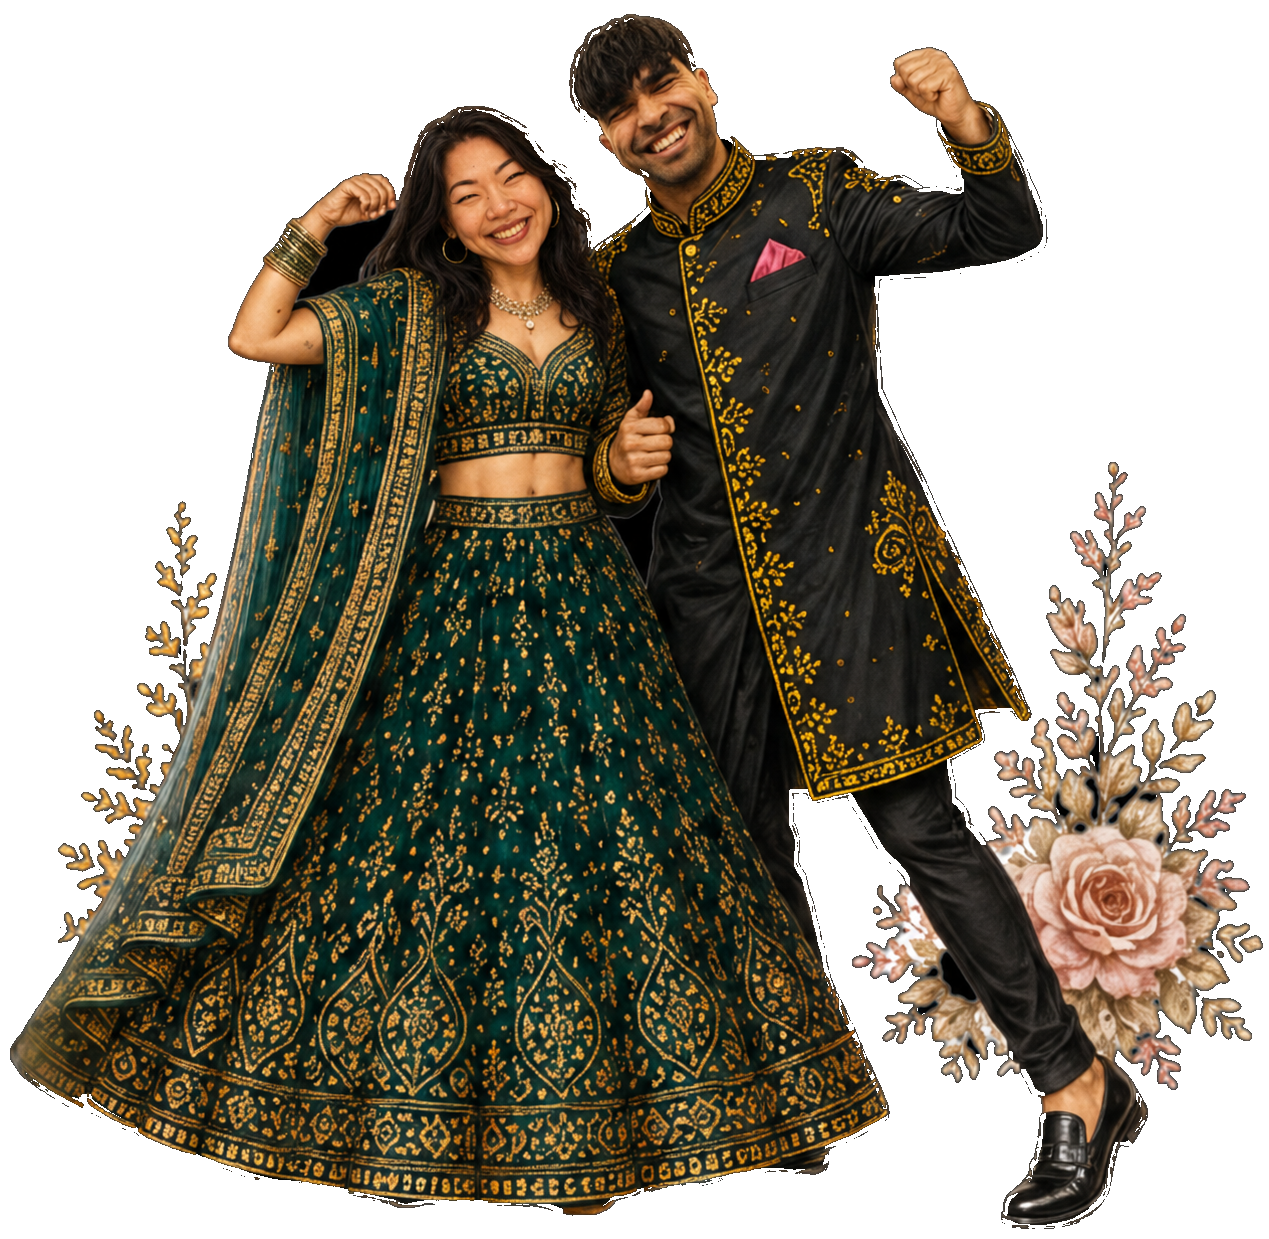
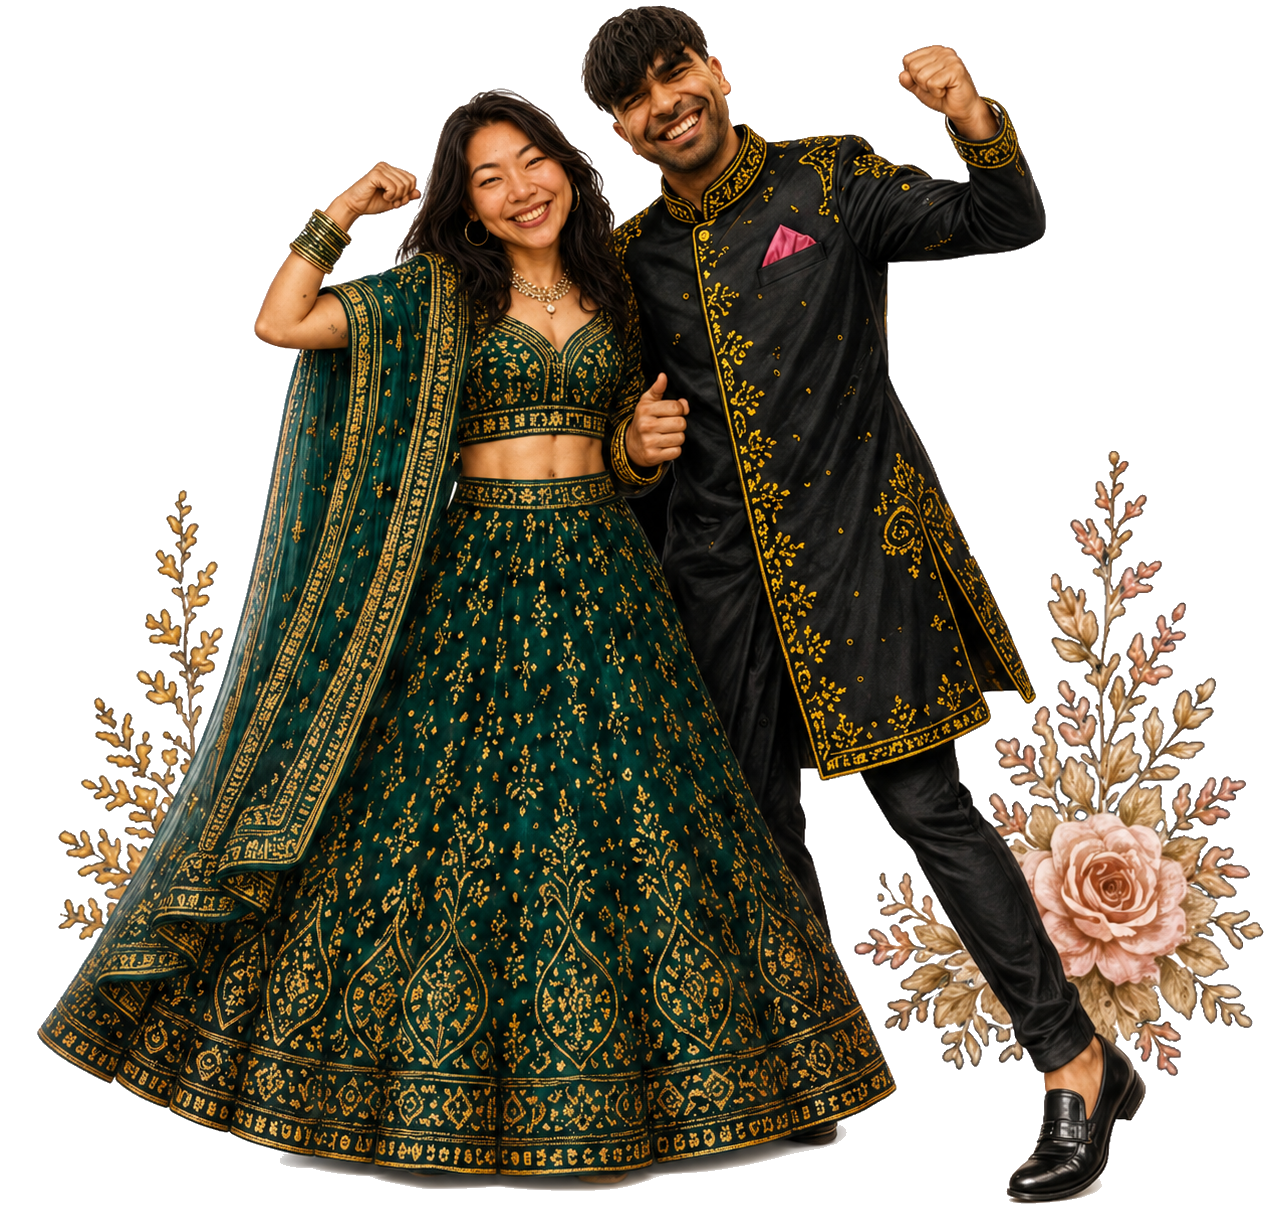
Replace haldi and baraat attire illustrations with user-supplied versions
- New photos provided by Elizabeth with white backgrounds removed
- Background removed via edge flood-fill (threshold 40) + interior near-bg pass (threshold 18)
- Both canvases cropped to feet+16px for consistent foot-to-bottom positioning
- --figure-width updated: haldi 97.2%→96.4%, baraat 92.3%→93.7% to normalize body height to ~336px rendered

diff --git a/index.html b/index.html
@@ -154,10 +154,10 @@ section { padding: 3.25rem var(--page-pad); position: relative; }
 .o-tag { display:inline-block; padding:0.25rem 0.7rem; border:1px solid var(--gold-faint); border-radius:2px; font-family:'Josefin Sans',sans-serif; font-size:0.6rem; letter-spacing:1.5px; text-transform:uppercase; color:var(--gold); margin-top:0.8rem; }
 .attire-figure { width:100%; max-width:380px; height:320px; margin:0 auto 0.85rem; background-size:var(--figure-width,92%) auto; background-repeat:no-repeat; background-position:center bottom; }
 .figure-christian { --figure-width:94.5%; background-image:url('assets/attire/attire-christian_2.png'); }
-.figure-haldi { --figure-width:97.2%; background-image:url('assets/attire/attire-haldi_2.png'); }
+.figure-haldi { --figure-width:96.4%; background-image:url('assets/attire/attire-haldi_2.png'); }
 .figure-sangeet { --figure-width:95.2%; background-image:url('assets/attire/attire-sangeet_2.png'); }
 .figure-wedding { --figure-width:93.6%; background-image:url('assets/attire/attire-wedding_2.png'); }
-.figure-baraat { --figure-width:92.3%; background-image:url('assets/attire/attire-baraat_2.png'); }
+.figure-baraat { --figure-width:93.7%; background-image:url('assets/attire/attire-baraat_2.png'); }
 .shop-links { max-width:var(--content-width); margin:0 auto; text-align:center; background:rgba(255,253,247,0.9); border:1px solid var(--gold-faint); border-top:none; border-radius:0 0 4px 4px; backdrop-filter:blur(6px); }
 .shop-links h4 { font-family:'Cormorant Garamond',serif; font-size:1.15rem; color:var(--navy); padding:1.1rem 1.4rem 0.9rem; margin:0; }
 .shop-accordion { border-top:1px solid var(--gold-faint); }
